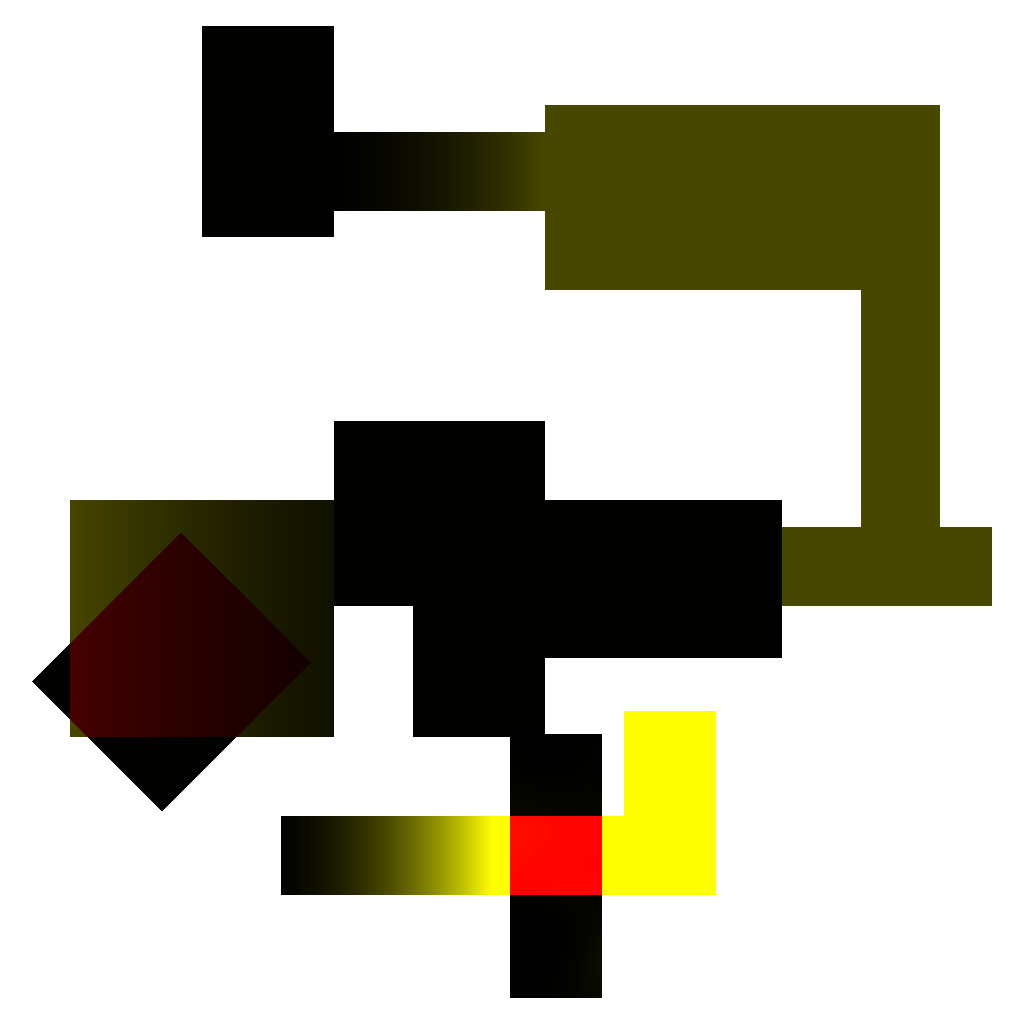
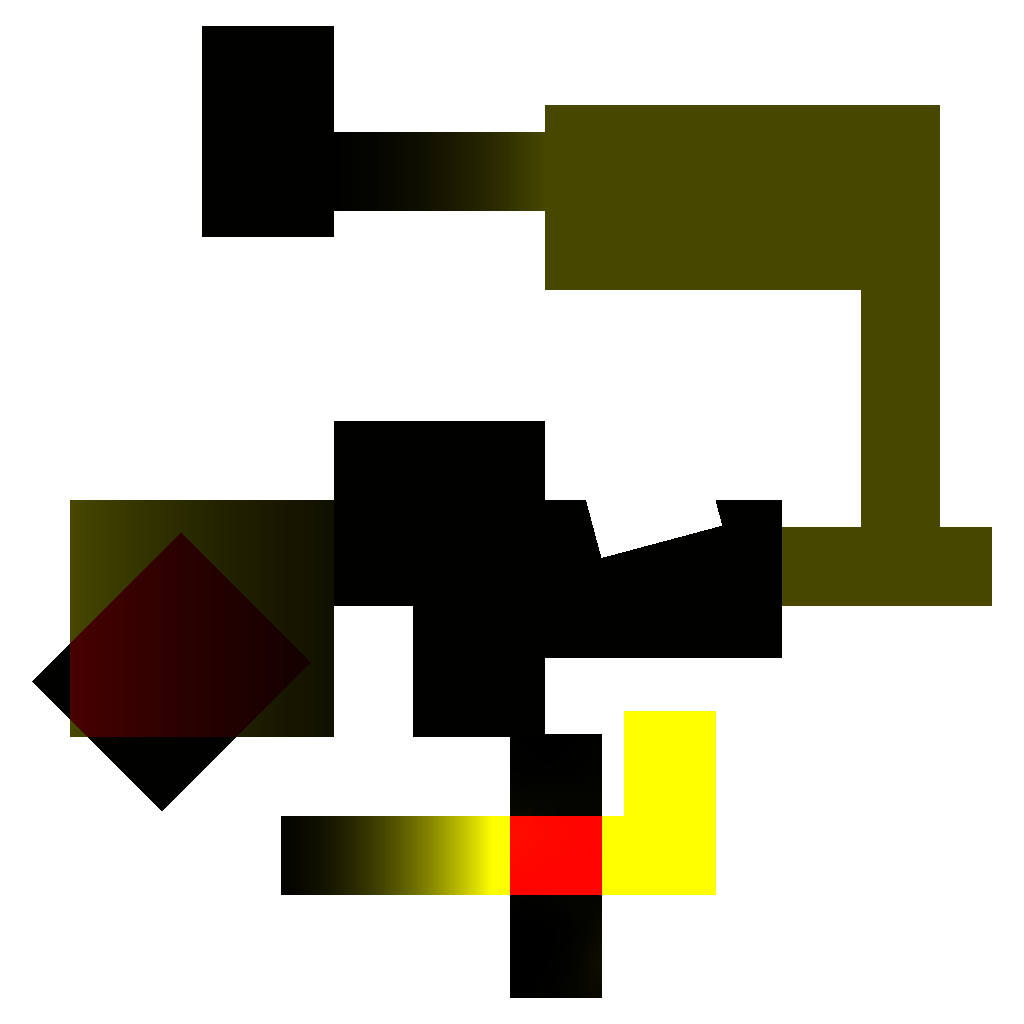
negative brushes

Changed region(s): [[0.5625, 0.4688, 0.7188, 0.5625]]

diff --git a/MCDV/main.cpp b/MCDV/main.cpp
@@ -329,6 +329,20 @@ int app(int argc, const char** argv) {
 		}
 	}
 
+	// Re render subtractive brushes
+	shader_depth.setFloat("write_playable", 0.0f);
+	for (auto && s_solid : tavr_solids_negative) {
+		if (!s_solid->containsDisplacements)
+			s_solid->mesh->Draw();
+		else {
+			for (auto && f : s_solid->faces) {
+				if (f.displacement != NULL) {
+					f.displacement->glMesh->Draw();
+				}
+			}
+		}
+	}
+
 	// ======================================================== REVERSE ORDER ========================================================
 
 	fb_comp_1.Bind();
